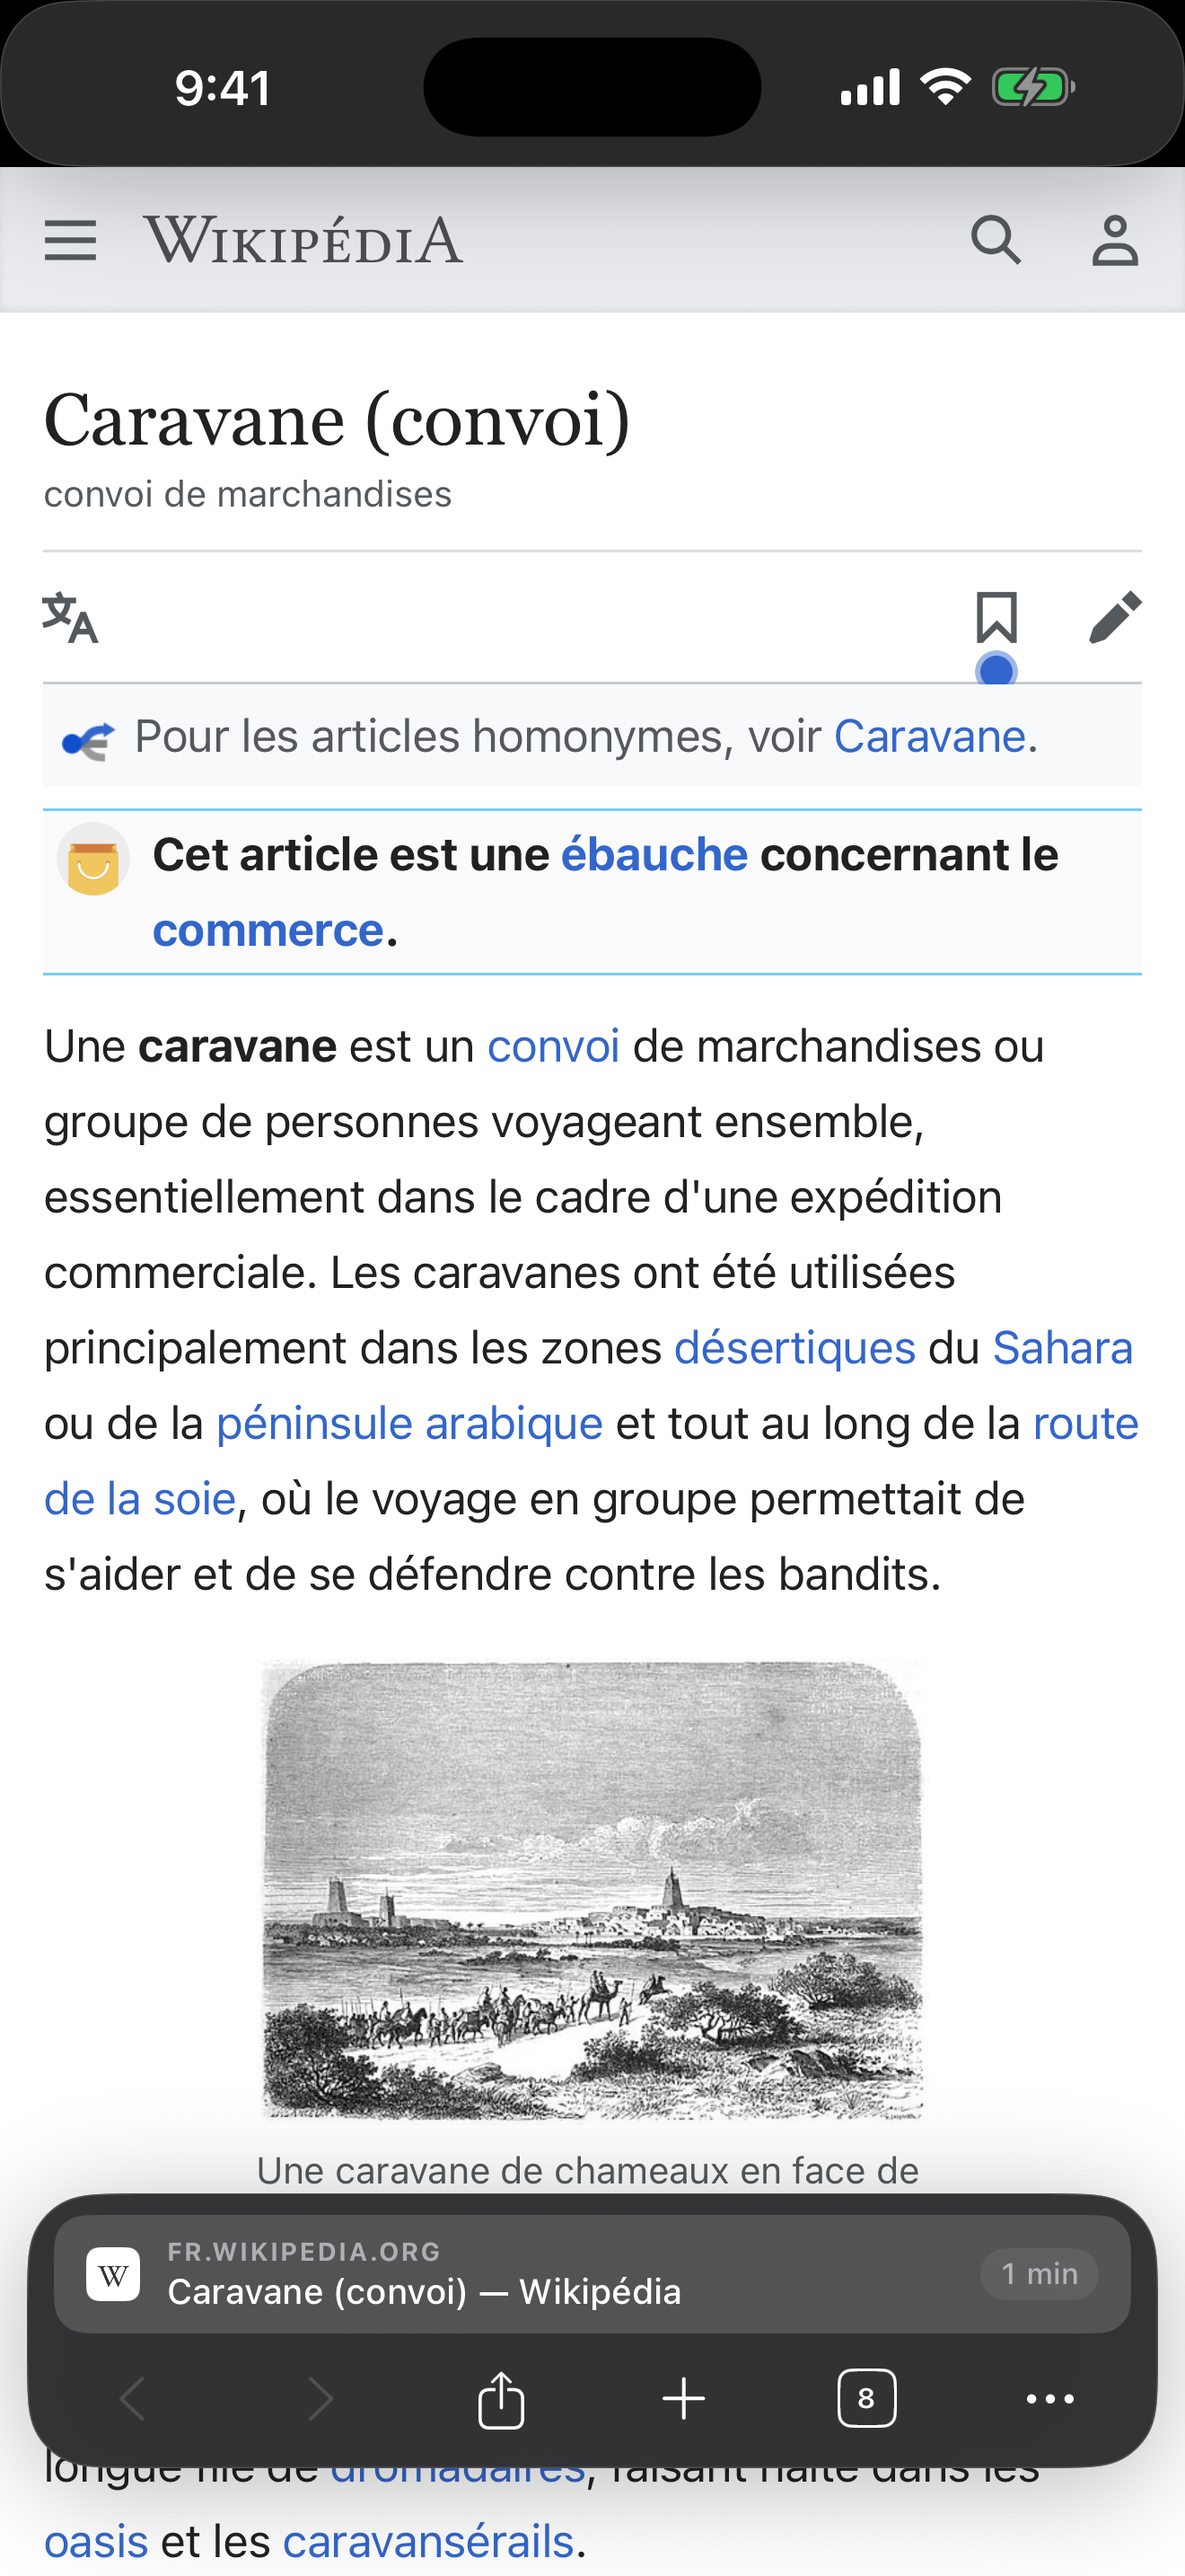
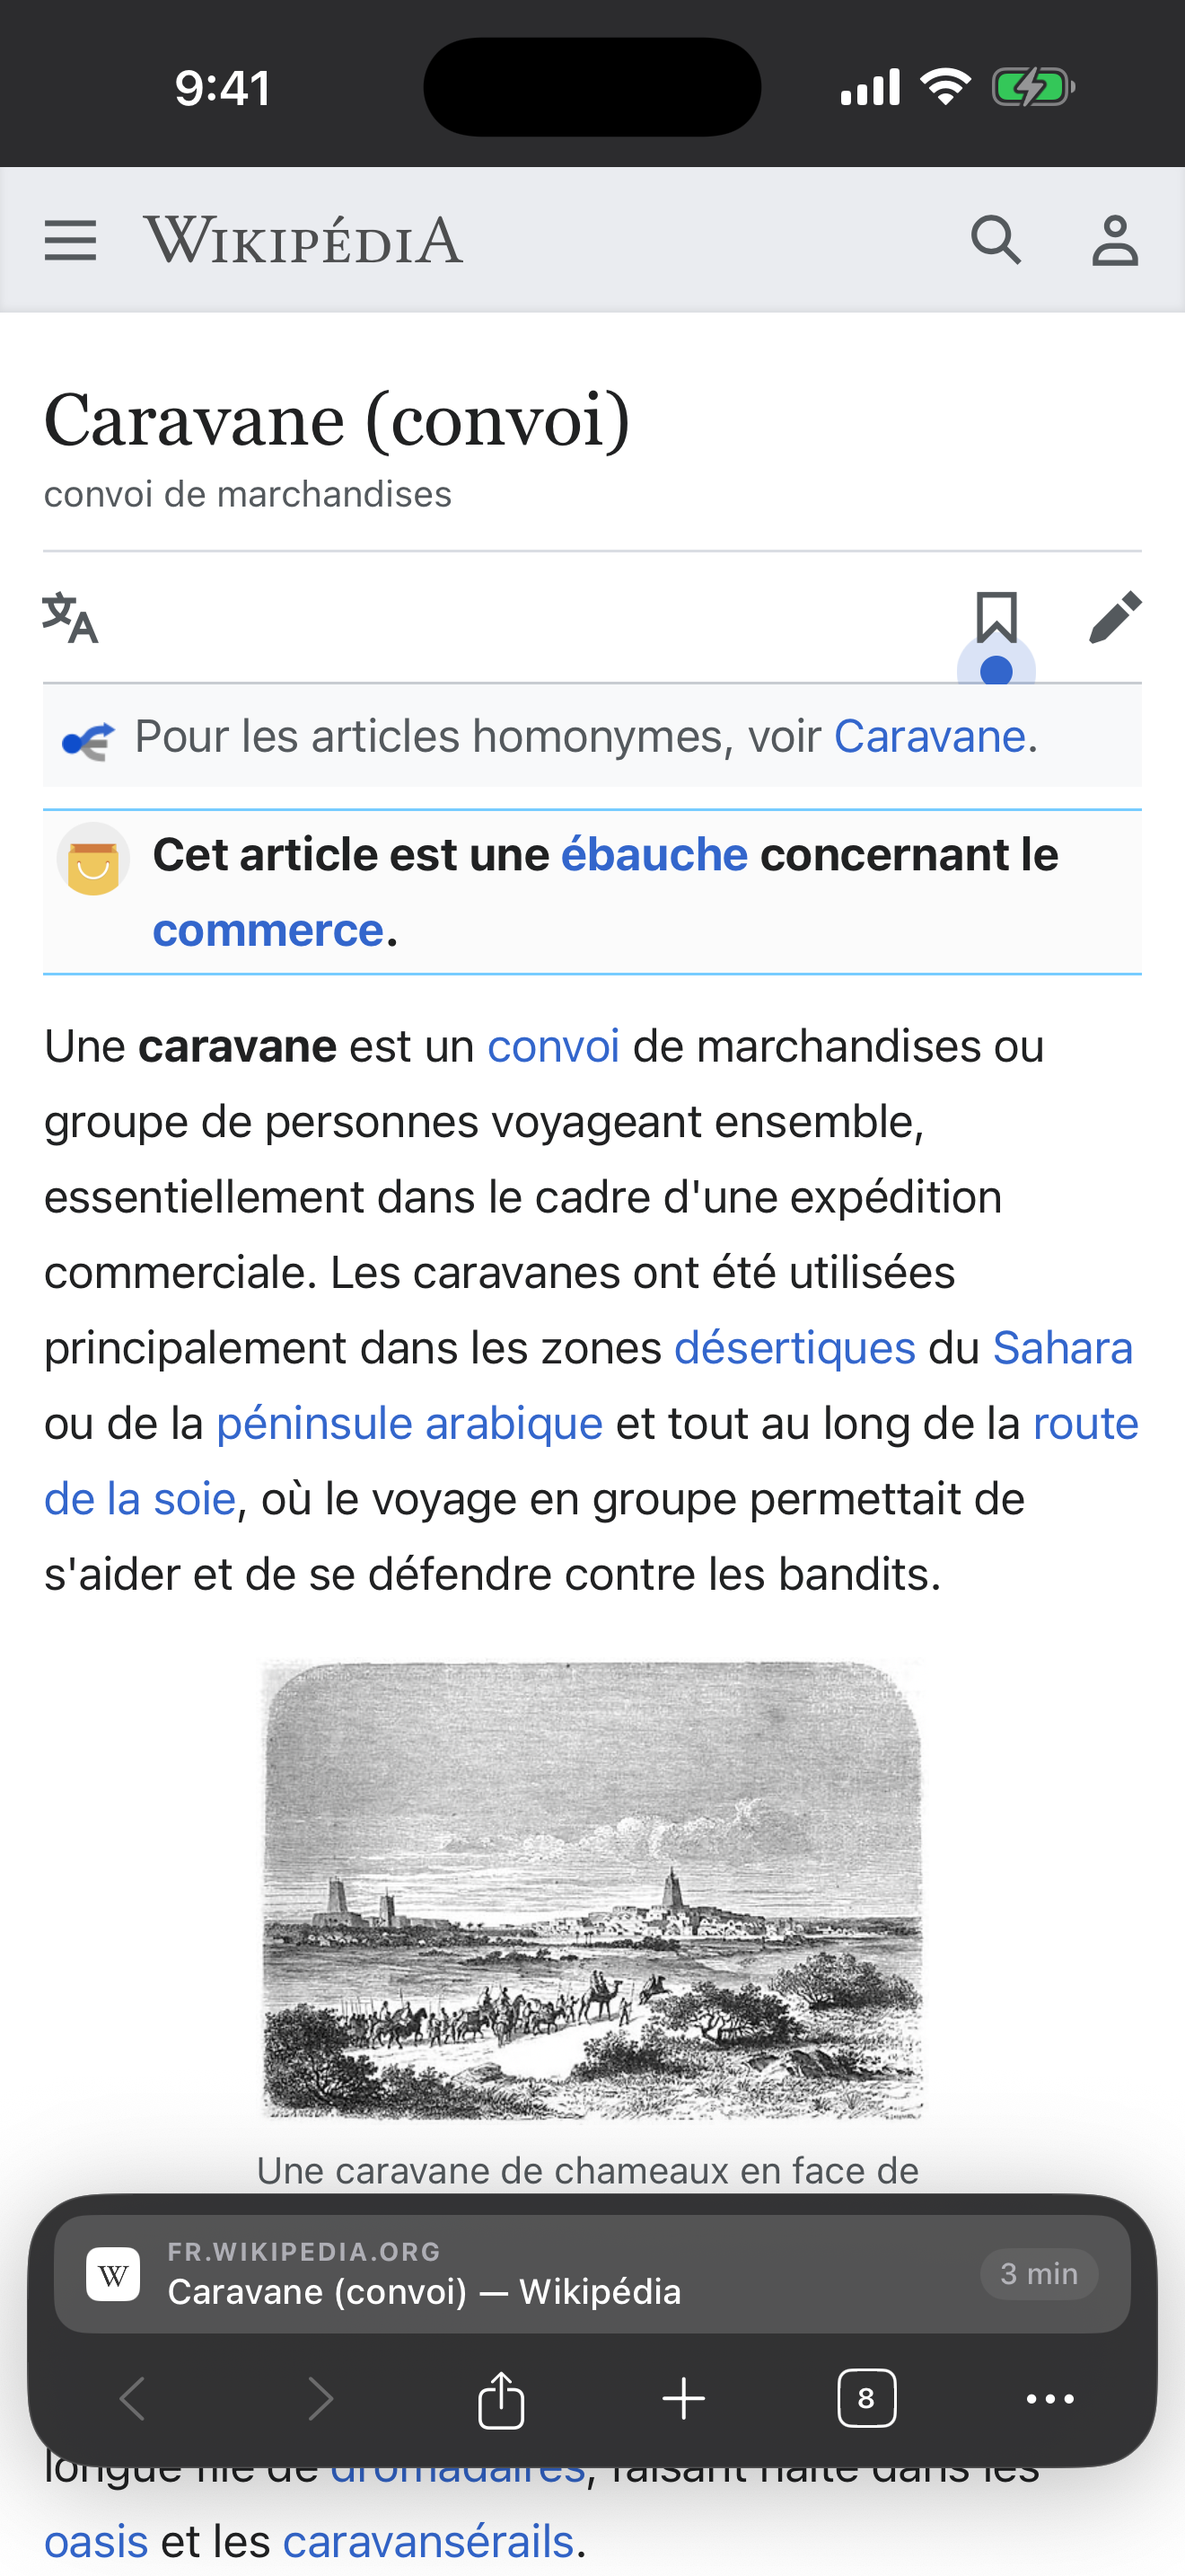
Temps de lecture : seuls les paragraphes de l'article comptent ; captures mises à jour
Claude-Session: https://claude.ai/code/session_017Vg4hUX43NGpYobFQsRYTv

Changed region(s): [[0.0, 0.0, 1.0, 0.0931], [0.8076, 0.2483, 0.8697, 0.2793]]

diff --git a/qafila/android-browser/app/src/main/java/fr/qafila/browser/web/Scripts.kt b/qafila/android-browser/app/src/main/java/fr/qafila/browser/web/Scripts.kt
@@ -5,7 +5,7 @@ object Scripts {
     /** Temps de lecture (200 mots/min) + couleur du site : theme-color (selon le mode clair/sombre), sinon fond de la page, normalisée en rgb(). */
     val pageInfo = """
         (function(){ try {
-          var root = document.querySelector('#mw-content-text, article, main, [role=main]') || document.body; var words = (root && root.textContent || '').split(/\s+/).filter(Boolean).length;
+          var root = document.querySelector('#mw-content-text, article, main, [role=main]') || document.body; var count = function(t){ return (t || '').split(/\s+/).filter(Boolean).length; }; var words = count(Array.prototype.map.call(root.querySelectorAll('p'), function(p){ return p.textContent; }).join(' ')); if (words < 60) words = count(root.textContent);
           function norm(c){ if (!c) return ''; var d = document.createElement('div'); d.style.color = c; (document.body || document.documentElement).appendChild(d); var r = getComputedStyle(d).color; d.remove(); return r; }
           function empty(c){ return !c || c === 'transparent' || /^rgba\(\s*0,\s*0,\s*0,\s*0\s*\)$/.test(c); }
           var c = '', metas = document.querySelectorAll('meta[name="theme-color"]');

diff --git a/qafila/ios-browser/QafilaBrowser/Services/Scripts.swift b/qafila/ios-browser/QafilaBrowser/Services/Scripts.swift
@@ -7,7 +7,10 @@ enum Scripts {
     (function(){
       try {
         var root = document.querySelector('#mw-content-text, article, main, [role=main]') || document.body;
-        var words = (root && root.textContent || '').split(/\\s+/).filter(Boolean).length;
+        var count = function(t){ return (t || '').split(/\\s+/).filter(Boolean).length; };
+        // Seuls les paragraphes comptent (pas les références, tableaux ni menus).
+        var words = count(Array.prototype.map.call(root.querySelectorAll('p'), function(p){ return p.textContent; }).join(' '));
+        if (words < 60) words = count(root.textContent);
         var meta = document.querySelector('meta[name="theme-color"]');
         var color = meta ? meta.getAttribute('content') : '';
         var icon = '';
